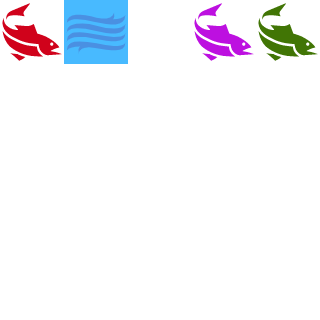
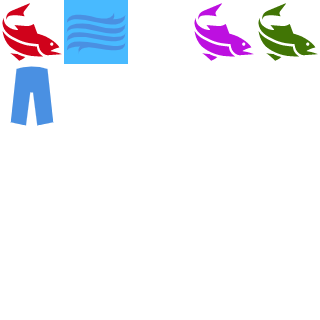
trousers can be fished for, in theory

Changed region(s): [[0.0312, 0.1875, 0.1875, 0.4062]]

diff --git a/seafarers_game/Game.Fishes.cpp b/seafarers_game/Game.Fishes.cpp
@@ -15,7 +15,9 @@ namespace game
 				{
 					{0,0},{1,0},{2,0},{3,0}
 				},
-				{ 4, 1 }
+				{ 4, 1 },
+				Item::FISH,
+				0
 			}
 		},
 		{
@@ -28,7 +30,9 @@ namespace game
 				{
 					{0,0},{0,1},{0,2},{0,3}
 				},
-				{ 1, 4 }
+				{ 1, 4 },
+				Item::FISH,
+				0
 			}
 		},
 		{
@@ -41,7 +45,24 @@ namespace game
 				{
 					{0,0},{0,1},{1,0},{1,1}
 				},
-				{ 2, 2 }
+				{ 2, 2 },
+				Item::FISH,
+				0
+			}
+		},
+		{
+			Fish::TROUSERS,
+			{
+				"trousers",
+				[]() { return 0; },
+				[]() { return 0.0; },
+				[]() { return 0.0; },
+				{
+					{0,0}
+				},
+				{ 1, 1 },
+				Item::TROUSERS,
+				1
 			}
 		}
 	};

diff --git a/seafarers_game/Game.Fishboard.cpp b/seafarers_game/Game.Fishboard.cpp
@@ -41,6 +41,17 @@ namespace game
 		{
 			fishGenerator[fishery.fish]++;
 		}
+		if (fishGenerator.empty())
+		{
+			for (auto fish : Fishes::All())
+			{
+				const auto& descriptor = Fishes::Read(fish);
+				if (descriptor.junkWeight > 0)
+				{
+					fishGenerator[fish] = descriptor.junkWeight;
+				}
+			}
+		}
 		if (!fishGenerator.empty())
 		{
 			return common::RNG::FromGenerator(fishGenerator, Fish::COD);//note - default is just there to satisfy the parameter list

diff --git a/seafarers_game/Game.FishDescriptor.h b/seafarers_game/Game.FishDescriptor.h
@@ -2,6 +2,7 @@
 #include <Common.XY.h>
 #include <functional>
 #include "Game.Fish.h"
+#include "Game.Item.h"
 #include <list>
 #include <string>
 namespace game
@@ -14,5 +15,7 @@ namespace game
 		std::function<double()> speedGenerator;
 		std::list<common::XY<int>> shape;
 		common::XY<size_t> size;
+		Item item;
+		size_t junkWeight;
 	};
 }

diff --git a/seafarers_game/Game.Fish.h b/seafarers_game/Game.Fish.h
@@ -5,6 +5,7 @@ namespace game
 	{
 		TUNA,
 		MARLIN,
-		COD
+		COD,
+		TROUSERS
 	};
 }

diff --git a/README.md b/README.md
@@ -26,3 +26,4 @@
 * https://game-icons.net/1x1/delapouite/boat-fishing.html
 * https://game-icons.net/1x1/various-artists/salmon.html
 * https://game-icons.net/1x1/lorc/waves.html
+* https://game-icons.net/1x1/lucasms/trousers.html
